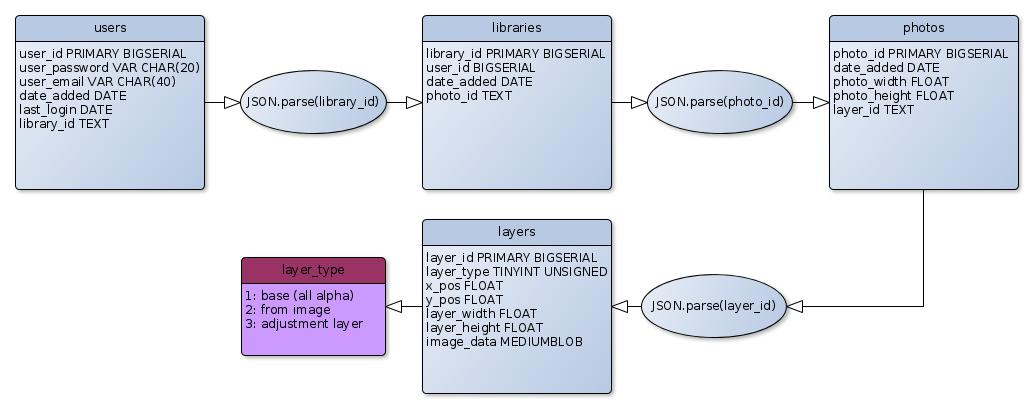
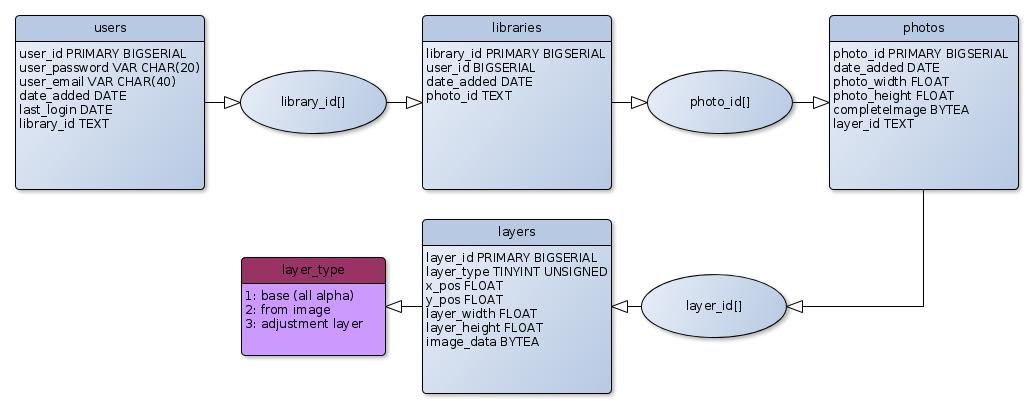
fixed datamembers in diagrams. Added complete viewing image to photos. Attemping to load it in to client, file size large, have to pipe?

diff --git a/public/javascripts/editor.js b/public/javascripts/editor.js
@@ -10,13 +10,24 @@ $(document).ready(function() {
   canvas.height=windowHeight*4;
   $(canvas).css({position: 'absolute', marginTop: (-2*windowHeight)+'px', marginLeft: (-2*windowWidth)+'px'});
   $.ajax({url:"/editorutils/loadphoto",data:{windowWidth:windowWidth,windowHeight:windowHeight}}).done(function(data){
-    //var imageObj=data.baseImage;
+    canvasDim=centerCanvas(windowWidth,windowHeight,data.width,data.height);
+    alert(data.image);
+    var imageObj=new Image();
+    imageObj.onload = function() {
+      context.putImageData(imageObj, canvasDim.canvasXPos, canvasDim.canvasYPos,0,0,canvasDim.canvasWidth,canvasDim.canvasHeight);
+      topLayerImage=context.getImageData(canvasDim.canvasXPos,canvasDim.canvasYPos,canvasDim.canvasWidth,canvasDim.canvasHeight);
+      completeImage=context.getImageData(canvasDim.canvasXPos,canvasDim.canvasYPos,canvasDim.canvasWidth,canvasDim.canvasHeight);
+      completeImageZoom=context.getImageData(canvasDim.canvasXPos,canvasDim.canvasYPos,canvasDim.canvasWidth,canvasDim.canvasHeight);
+    };
+    imageObj.src = data.image;
+    
     var layer_ids=data.layers.replace('{','').replace('}','').split(",")
-    //canvasDim=centerCanvas(windowWidth,windowHeight,imageObj.width,imageObj.height);
-    //context.putImageData(imageObj, canvasDim.canvasXPos, canvasDim.canvasYPos,0,0,canvasDim.canvasWidth,canvasDim.canvasHeight);
-    //topLayerImage=context.getImageData(canvasDim.canvasXPos,canvasDim.canvasYPos,canvasDim.canvasWidth,canvasDim.canvasHeight);
-    //completeImage=context.getImageData(canvasDim.canvasXPos,canvasDim.canvasYPos,canvasDim.canvasWidth,canvasDim.canvasHeight);
-    //completeImageZoom=context.getImageData(canvasDim.canvasXPos,canvasDim.canvasYPos,canvasDim.canvasWidth,canvasDim.canvasHeight);
+    for (var i = 1; i < layer_ids.length; i++){
+      $.ajax({url:"/editorutils/loadlayer",data:{layer_id:layer_ids[i]}}).done(function(data){
+      
+      });
+    }
+    $(".displayOverlay").css({display: 'none'});
   });
   
   //** TOOL BINDINGS **

diff --git a/routes/editorUtils.js b/routes/editorUtils.js
@@ -25,15 +25,23 @@ exports.loadPhoto = function(req, res){
   var photoQuery = postgresClient.query("SELECT * FROM photos WHERE photo_id=$1",[photoid]);
   photoQuery.on('row', function(row) {
     var canvasDim=exportDim(req.query.windowWidth,req.query.windowHeight,row.photo_width,row.photo_height);
-    res.send({width:canvasDim.width,height:canvasDim.height,layers:row.layer_id});
+    var canvas=new Canvas(canvasDim.width,canvasDim.height);
+    var ctx=canvas.getContext('2d');
+    var img = new Canvas.Image;
+    img.onload = function(){
+      ctx.drawImage(row.completeImage,0,0,canvasDim.width,canvasDim.height);
+      var b64png = canvas.toDataURL();
+      res.send({width:canvasDim.width,height:canvasDim.height,image:b64png,layers:row.layer_id});
+    };
+    img.src = row.completeImage; 
   });
 };
 exports.loadLayer = function(req, res){
   res.contentType('application/json');
+  var canvas=new Canvas(req.query.photoWidth,req.query.photoHeight);
+  var ctx=canvas.getContext('2d');
   var layerQuery = postgresClient.query("SELECT * FROM layers WHERE layer_id=$1",[req.query.layerID]);
   layerQuery.on('row', function(row) {
-    var canvas=new Canvas(req.query.photoWidth,req.query.photoHeight);
-    var ctx=canvas.getContext('2d');
   });
 };
 

diff --git a/test.js b/test.js
@@ -29,7 +29,7 @@ imgObject.onload = function(){
   var b64png = canvas.toDataURL();
   postgresClient.query("INSERT INTO users (user_name,user_password,user_email,date_added,last_login,library_id) VALUES ('ntsianos','password','ntsianos@ucla.edu','2013-12-23','2013-12-23',$1)",[library_id]);
   postgresClient.query("INSERT INTO libraries (user_id,date_added,photo_id) VALUES (1,'2013-12-23',$1)",[photo_id]);
-  postgresClient.query("INSERT INTO photos (user_id,date_added,photo_width,photo_height,layer_id) VALUES (1,'2013-12-23',683,1024,$1)",[layer_id]);
+  postgresClient.query("INSERT INTO photos (user_id,date_added,photo_width,photo_height,completeImage,layer_id) VALUES (1,'2013-12-23',683,1024,$1,$2)",[b64png,layer_id]);
   postgresClient.query("INSERT INTO layers (layer_type,x_pos,y_pos,layer_width,layer_height,image_data) VALUES (0,0,0,683,1024,'0')");
   postgresClient.query("INSERT INTO layers (layer_type,x_pos,y_pos,layer_width,layer_height,image_data) VALUES (1,0,0,683,1024,$1)",[b64png]);
 }

diff --git a/DatabaseDebug/createDatabase.js b/DatabaseDebug/createDatabase.js
@@ -20,5 +20,5 @@ postgresClient.connect(function(err) {
 
 postgresClient.query("CREATE TABLE users(user_id BIGSERIAL PRIMARY KEY,user_name VARCHAR(20),user_password VARCHAR(20),user_email VARCHAR(40),date_added DATE,last_login DATE,library_id TEXT)");
 postgresClient.query("CREATE TABLE libraries(library_id BIGSERIAL PRIMARY KEY,user_id BIGSERIAL,date_added DATE,photo_id TEXT)");
-postgresClient.query("CREATE TABLE photos(photo_id BIGSERIAL PRIMARY KEY,user_id BIGSERIAL,date_added DATE,photo_width FLOAT,photo_height FLOAT,layer_id TEXT)");
+postgresClient.query("CREATE TABLE photos(photo_id BIGSERIAL PRIMARY KEY,user_id BIGSERIAL,date_added DATE,photo_width FLOAT,photo_height FLOAT,completeImage BYTEA,layer_id TEXT)");
 postgresClient.query("CREATE TABLE layers(layer_id BIGSERIAL PRIMARY KEY,layer_type SMALLINT,x_pos FLOAT,y_pos FLOAT,layer_width FLOAT,layer_height FLOAT,image_data BYTEA)");

diff --git a/app.js b/app.js
@@ -82,7 +82,7 @@ app.get('/account', function(req, res) {
 });
 app.get('/editorutils/initimage', editorUtils.initImage);
 app.get('/editorutils/loadphoto', editorUtils.loadPhoto);
-app.get('/editorutils/loadlayer', editorUtils.loadLayer);
+//app.get('/editorutils/loadlayer', editorUtils.loadLayer);
 app.get('/completeEditor', function(req, res) {
   res.render('editor');
 });
